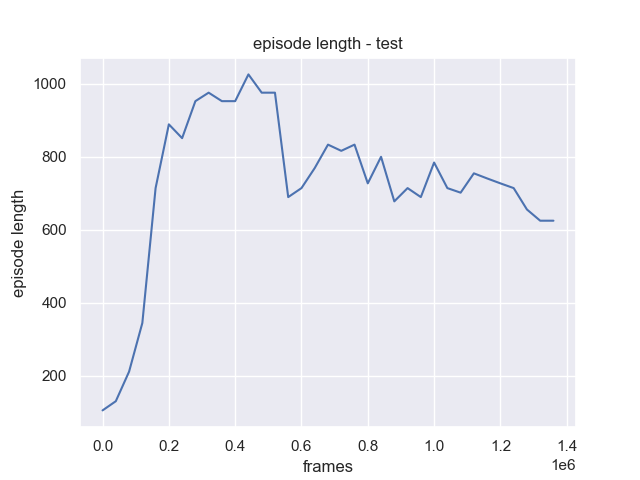
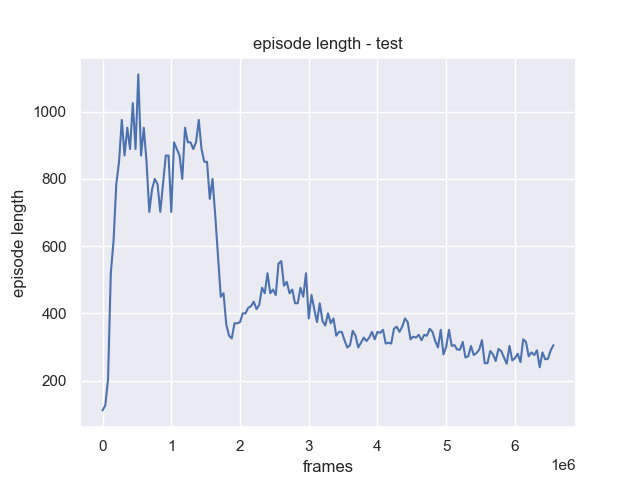
deep_q_exp_good

diff --git a/main.py b/main.py
@@ -6,23 +6,23 @@ from exploration import Explorations, Exploration
 class parameters:
     # general parameters
     name: str = "test" # (name of the trained agent)
-    train_loop: Callable = reinforce_learn # (choose between deep q learning, policy gradient, actor critic, eval)
-    exploration: Explorations = Explorations.multinomial # (How to choose action from output of agent)
+    train_loop: Callable = deep_q_learn # (choose between deep q learning, policy gradient, actor critic, eval)
+    exploration: Explorations = Explorations.linearly_decaying_eps_greedy # (How to choose action from output of agent)
     # (choose between epsilon greedy, greedy, multinomial (eg. If discrete REINFORCE), normal distribution (cont. REINFORCE), etc.)
 
     # training parameters
     batch_size: int = 512
-    learning_rate: float = 2e-4
+    learning_rate: float = 5e-4
     weight_decay: float = 1e-5
-    trains_every_frames: int = 4
+    trains_every_frames: int = 1
 
     # only used with a replay buffer
     train_after_frames: int = 50000
     buffer_size: int = 200000
-    update_target_every_frames: int = 4000
+    update_target_every_frames: int = 2000
 
     # only used with learning from episodes (eg. REINFORCE or actor critic)
-    episodes_before_train: int = 16 # (if set to lower than num_envs, it will be set to num_envs)
+    episodes_before_train: int = 16 # (How many episodes is played before we train on them. If set to lower than num_envs, it will be set to num_envs)
     baseline_model: bool = True # (whether to use a baseline or not (for advantage function estimation))
 
     # agent parameters
@@ -38,12 +38,12 @@ class parameters:
 
     # environment parameters
     env_name: str = "LunarLander-v2" # (choose between LunarLander-v2, CartPole-v1, etc.)
-    render_mode: str = None # (human or None, only use human if very few num_envs (is alywas human if eval mode)))))
+    render_mode: str = None # (human or None, only use human if very few num_envs (is always human if eval mode)))))
     continuous: bool = False
-    num_envs: int = 2
+    num_envs: int = 16
 
     # extra parameters
-    save_agent_every: int = 100000 # (how many frames before screenshot of agent and it's performance is saved)
+    save_agent_every: int = 40000 # (how many frames before screenshot of agent and it's performance is saved)
     measure_performance_every: int = 40000 # (how many frames to accumulate into 1 point in plots)
 
 if __name__ == "__main__":
